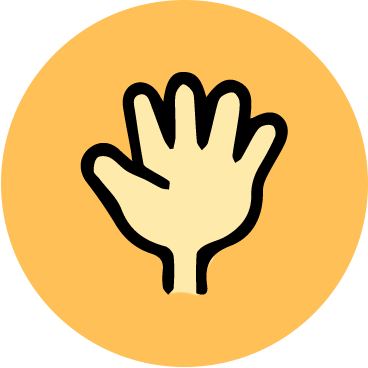
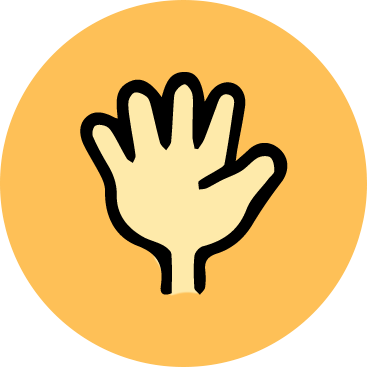
flipped images and cleaned the logic

diff --git a/assets/javascript/logic.js b/assets/javascript/logic.js
@@ -11,15 +11,17 @@ $(document).ready(function () {
   };
   firebase.initializeApp(config);
 
+
   // Player's constructor
-  function Player(name, wins, losses) {
+  function Player(name) {
     this.name = name;
-    this.wins = wins;
-    this.losses = losses;
+    this.wins = 0;
+    this.losses = 0;
   }
 
   // Initialize variables
   var database = firebase.database();
+  var playerName;
   var playerData;
   
   // Write player's information to Database
@@ -65,12 +67,10 @@ $(document).ready(function () {
   $("#name-submit").on("click", function (event) {
     event.preventDefault();
 
-    var playerName = $("#player-name").val().trim();
+    playerName = $("#player-name").val().trim();
 
     if (playerName) {
-
-      var player = new Player(playerName, 0, 0);
-
+      var player = new Player(playerName);
       database.ref().once("value", function(snapshot) {
         var hasPlayerOne = snapshot.child("/player 1").exists();
         var hasPlayerTwo = snapshot.child("/player 2").exists();
@@ -79,33 +79,40 @@ $(document).ready(function () {
           $("#name-header").html("<h1>Hi " + playerName + "! You are player 1</h1>");
           playerData = "/player 1";
           writeUserData(player);
-
-          var playerRef = database.ref(playerData);
-          playerRef.on("value", function(snapshot) {
-            player.wins = snapshot.val().wins;
-            player.losses = snapshot.val().losses;
-            playerStats(player, "#player-one-stats");
-          })
-
           removeUserOnDisconnect();
-
         } 
+
         if (hasPlayerOne && !hasPlayerTwo) {
           $("#name-header").html("<h1>Hi " + playerName + "! You are player 2</h1>");
           playerData = "/player 2";
           writeUserData(player);
-
-          var playerRef = database.ref(playerData);
-          playerRef.on("value", function(snapshot) {
-            player.wins = snapshot.val().wins;
-            player.losses = snapshot.val().losses;
-            playerStats(player, "#player-two-stats");
-          })
-
           removeUserOnDisconnect();
         }
-
+        
       });
+    }
+  });
+
+  database.ref().on("value", function(snapshot) {
+    var hasPlayerOne = snapshot.child("/player 1").exists();
+    var hasPlayerTwo = snapshot.child("/player 2").exists();
+
+    if (hasPlayerOne) {
+      var player = new Player(snapshot.child("/player 1/name").val());
+      player.wins = snapshot.child("/player 1/wins").val();
+      player.losses = snapshot.child("/player 1/losses").val();
+      playerStats(player, "#player-one-stats");
+    } else {
+      $("#player-one-stats").html("<p>Wait for player 1</p>");
+    }    
+
+    if (hasPlayerTwo) {
+      var player = new Player(snapshot.child("/player 2/name").val());
+      player.wins = snapshot.child("/player 2/wins").val();
+      player.losses = snapshot.child("/player 2/losses").val();
+      playerStats(player, "#player-two-stats");
+    } else {
+      $("#player-two-stats").html("<p>Wait for player 2</p>");
     }
 
   });
@@ -113,13 +120,13 @@ $(document).ready(function () {
   $(".rps").on("click", function() {
     var choice = $(this).attr("data-choice");
     if (choice === "rock") { 
-      writeUserChoice(playerData, "Rock") 
+      writeUserChoice(playerData, "Rock");
     };
     if (choice === "paper") { 
-      writeUserChoice(playerData, "Paper") 
+      writeUserChoice(playerData, "Paper");
     };
     if (choice === "scissors") { 
-      writeUserChoice(playerData, "Scissors") 
+      writeUserChoice(playerData, "Scissors");
     };
   });
 
